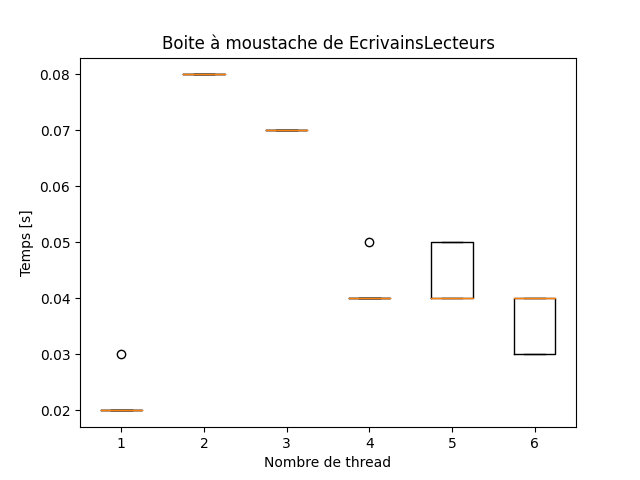
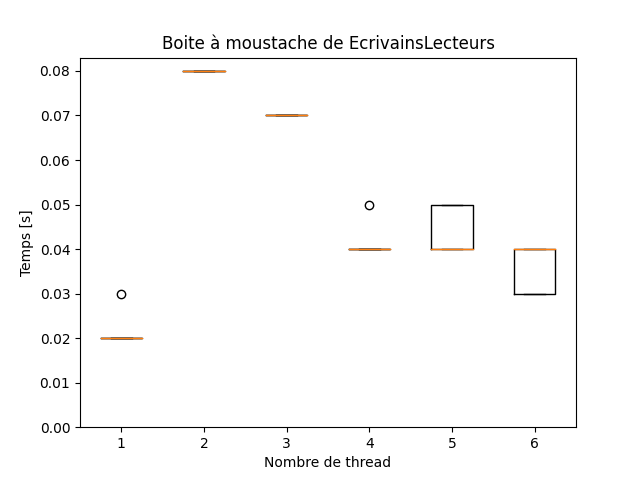
correction axe 0 plot

diff --git a/Projet_SI/plot.py b/Projet_SI/plot.py
@@ -18,6 +18,7 @@ def moustache1(data_name, name):
     fig=plt.figure()
     plt.boxplot([data_1,data_2,data_3,data_4,data_5,data_6], labels=[1,2,3,4,5,6])
     plt.ylabel('Temps [s]')
+    plt.ylim(bottom=0)
     plt.xlabel('Nombre de thread')
     plt.title('Boite à moustache de ' + name)
     plt.savefig('../Projet_SI/Projet_SI/Graphe/'+name+'.png')
@@ -38,6 +39,7 @@ def moustache(data_name, name):
     fig=plt.figure()
     plt.boxplot([data_2,data_3,data_4,data_5,data_6], labels=[2,3,4,5,6])
     plt.ylabel('Temps [s]')
+    plt.ylim(bottom=0)
     plt.xlabel('Nombre de thread')
     plt.title('Boite à moustache de ' + name)
     plt.savefig('../Projet_SI/Projet_SI/Graphe/'+name+'.png')
